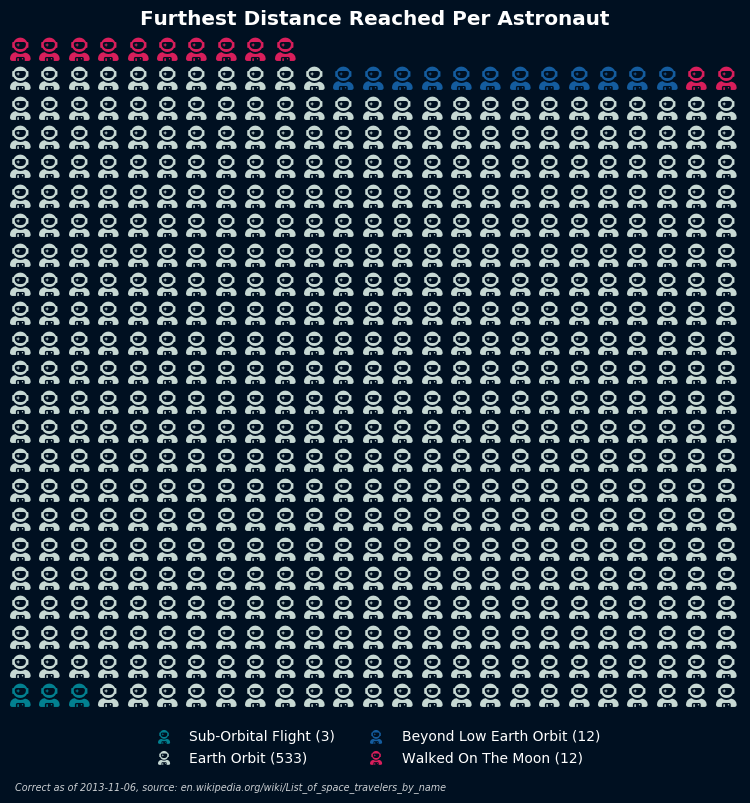
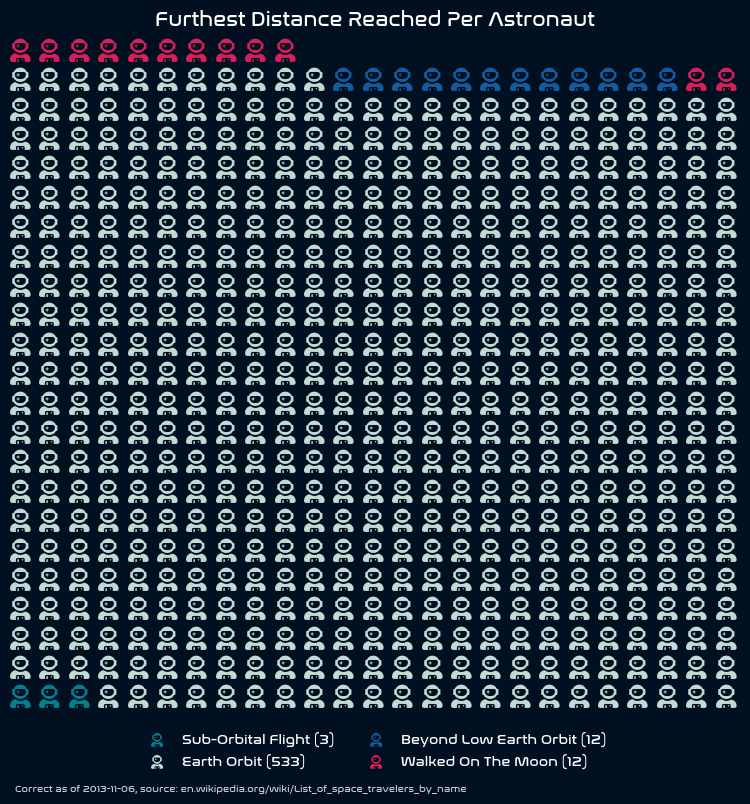
Update Astronaut font

Changed region(s): [[0.0, 0.0, 0.9813, 0.8095], [0.0307, 0.9029, 0.7973, 0.9963]]

diff --git a/content/Graphs/2019-09-16 Astronauts.md b/content/Graphs/2019-09-16 Astronauts.md
@@ -28,6 +28,8 @@ code.
 # Libraries / Resources
 - [`matplotlib`](<https://matplotlib.org/>) (I used 3.1.1)
 - [`pywaffle`](<https://github.com/gyli/PyWaffle>) (>0.4.0)
+- [Nasalization Regular](<https://www.fontspring.com/fonts/typodermic/nasalization>)
+  to get the labels looking just right, available free from Fontspring
 
 # Data Sources
 As noted earlier and on the graph itself, the data here comes from
@@ -37,8 +39,14 @@ As noted earlier and on the graph itself, the data here comes from
 ```python
 import matplotlib.pyplot as plt
 from pywaffle import Waffle
+import matplotlib.font_manager as font_manager
 
 
+# Update font list
+font_manager._rebuild()
+
+plt.rcParams['font.family'] = 'sans-serif'
+plt.rcParams['font.sans-serif'] = 'Nasalization'
 plt.rcParams['savefig.facecolor'] = '#001021'
 plt.rcParams['text.color'] = 'w'
 
